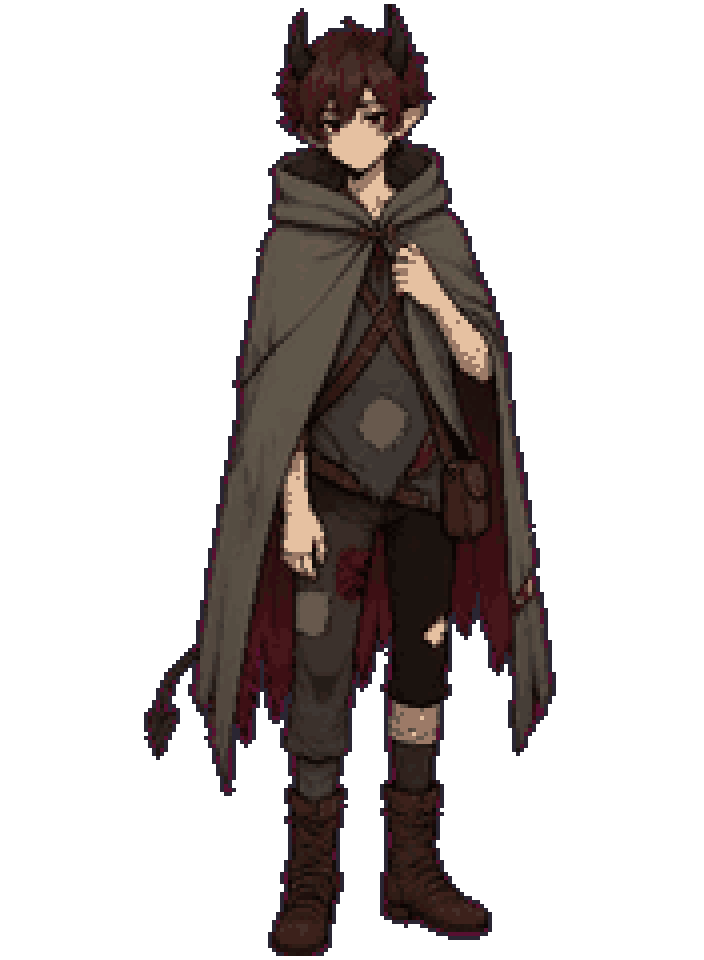
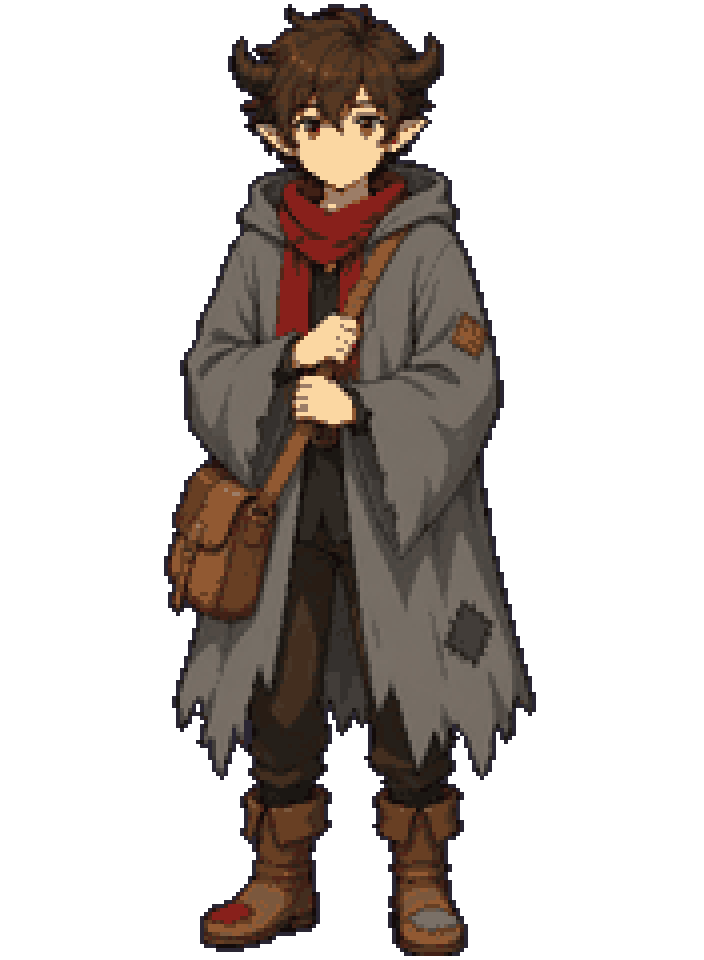
feat: 코어·주역 9인 작화 리뉴얼(셀레나 우선), 캐시 v45

diff --git a/index.html b/index.html
@@ -9,7 +9,7 @@
 <link rel="preconnect" href="https://fonts.googleapis.com">
 <link rel="preconnect" href="https://fonts.gstatic.com" crossorigin>
 <link href="https://fonts.googleapis.com/css2?family=Outfit:wght@400;600;700&family=Noto+Sans+KR:wght@400;500;700&family=Noto+Serif+KR:wght@400;600;700&display=swap" rel="stylesheet">
-<link rel="stylesheet" href="css/style.css?v=44">
+<link rel="stylesheet" href="css/style.css?v=45">
 <script>
 /* QA 계측 — 콘솔/이미지 오류 0건 확인용 (게임 로직에는 관여하지 않음) */
 window.__errs=[]; window.__imgerrs=[];
@@ -30,15 +30,15 @@ addEventListener('unhandledrejection', function(e){ window.__errs.push('promise:
 <div id="overlay"></div>
 <div id="toast" class="toast-root"></div>
 
-<script src="js/data-roster.js?v=44"></script>
-<script src="js/data-clues.js?v=44"></script>
-<script src="js/data-rumors.js?v=44"></script>
-<script src="js/data-act1.js?v=44"></script>
-<script src="js/data-letters.js?v=44"></script>
-<script src="js/data-nights.js?v=44"></script>
-<script src="js/state.js?v=44"></script>
-<script src="js/engine.js?v=44"></script>
-<script src="js/ui.js?v=44"></script>
-<script src="js/main.js?v=44"></script>
+<script src="js/data-roster.js?v=45"></script>
+<script src="js/data-clues.js?v=45"></script>
+<script src="js/data-rumors.js?v=45"></script>
+<script src="js/data-act1.js?v=45"></script>
+<script src="js/data-letters.js?v=45"></script>
+<script src="js/data-nights.js?v=45"></script>
+<script src="js/state.js?v=45"></script>
+<script src="js/engine.js?v=45"></script>
+<script src="js/ui.js?v=45"></script>
+<script src="js/main.js?v=45"></script>
 </body>
 </html>

diff --git a/js/state.js b/js/state.js
@@ -6,7 +6,7 @@
 
 const SAVE_KEY = 'arden_save_v3';
 const SAVE_BAK  = 'arden_save_v3_bak';
-const ASSET_VER = 44;
+const ASSET_VER = 45;
 
 function newState(name) {
   return {

diff --git a/tools/art_specs_core.py b/tools/art_specs_core.py
@@ -1,0 +1,110 @@
+#!/usr/bin/env python3
+"""코어·주역 인물 작화 설계도 (v45 리뉴얼).
+
+초상과 전신이 같은 'look' 문장을 공유해 머리색·눈색·복장이 어긋나지 않는다.
+41인 조연(art_specs.py)과 같은 파스텔 모던 도트 기준을 쓴다.
+
+  python3 tools/gencore.py --only serena --kind face
+"""
+
+# id: (성별, look, 초상 추가 묘사, 전신 추가 묘사)
+SPECS = {
+    # ── 셀레나 — 교단 서기관 (최우선) ─────────────────────────
+    'serena': ('f',
+        'a beautiful young woman of twenty-four with long wavy golden-blonde hair framing her shoulders, '
+        'large soft amber eyes with long lashes, a delicate silver circlet with a small crystal on her forehead, '
+        'a high-collared white and gold priest vestment with a pale blue stole and a small silver cross',
+        'a calm gentle look, a faint warm smile, facing the viewer',
+        'standing with both hands resting on a small prayer book at her waist, a long white robe with gold trim, '
+        'a pale blue stole hanging down the front'),
+
+    # ── 카엘 — 변경 수비대장 ─────────────────────────────────
+    'kael': ('m',
+        'a handsome slim young man of twenty-six with short tousled warm-brown hair, clear blue eyes, warm light '
+        'skin, clean shaven jaw, a small old scar on one cheek, polished silver-blue plate armour over a deep blue '
+        'surcoat with a silver cross emblem on the chest',
+        'a steady reserved look, a faint confident smile, facing the viewer, head filling the upper frame, '
+        'shoulders cropped at the collarbone',
+        'standing with one hand resting on the pommel of a longsword at his hip, a deep blue half cape, '
+        'armoured boots, tall and slim with 6.5 head proportions, warm light skin, clear blue eyes'),
+
+    # ── 미라 — 비아 상단주 ───────────────────────────────────
+    'mira': ('f',
+        'a striking woman of twenty-nine with voluminous curly auburn-red hair tied high in a ponytail, '
+        'sharp teal-green eyes, small gold hoop earrings, a teal-green scarf wrapped at her neck, a cream blouse '
+        'under a brown leather bodice, a merchant satchel strap across her chest',
+        'a confident smirk with one brow raised, facing the viewer',
+        'standing with one hand on her hip, a leather ledger and a coin purse at her belt, brown travelling boots'),
+
+    # ── 클레어 — 연금술사 ────────────────────────────────────
+    'claire': ('f',
+        'a pretty young woman of twenty-six with short tousled pastel-pink hair with a mint-green streak in her '
+        'bangs, calm green eyes with long lashes, brass goggles pushed up on her head, a dark plum leather '
+        'alchemist coat with many straps and buckles',
+        'a cool half-lidded look, a tiny knowing smirk, facing the viewer',
+        'standing with a small glowing green flask held up in one hand, a heavy leather apron over her coat, '
+        'a row of glass vials at her belt'),
+
+    # ── 엘렌 — 외뿔 악마족 검사 ───────────────────────────────
+    'ellen': ('f',
+        'a stunning demon woman of twenty-one with long straight platinum-white hair, large ruby-red eyes with '
+        'long lashes, a single small crimson horn on the left side of her head, pointed ears, fair peach skin '
+        'with a soft blush, a black high-collared coat with a dark grey under-shirt, a crimson sash and a thin '
+        'silver clasp',
+        'a quiet guarded stare, lips slightly parted, facing the viewer',
+        'standing with a slender katana held low in one hand, black boots, a long black coat with silver buckles '
+        'and a crimson inner sash, fair peach skin'),
+
+    # ── 밀 — 용병・페르카의 어머니 ────────────────────────────
+    'mill': ('f',
+        'a warm cheerful demon woman of thirty-two with bright green short hair, glowing yellow eyes, a single '
+        'short cream horn on the right side of her head, pointed ears, a fur-trimmed brown leather vest over a '
+        'cream shirt, a hand axe hanging at her belt',
+        'a bright welcoming grin, facing the viewer',
+        'standing with a hand axe resting over one shoulder and a travelling pack on her back, sturdy boots'),
+
+    # ── 그레타 — 회계관 ─────────────────────────────────────
+    'greta': ('f',
+        'a composed young woman of twenty-eight with ash-brown hair pulled into a tight low bun, sharp narrow '
+        'grey-green eyes, thin half-rim spectacles, a high-collared dark navy clerk dress with white cuffs',
+        'a cool level look, facing the viewer',
+        'holding a thick leather ledger against her chest, an abacus hanging at her waist'),
+
+    # ── 세라핀 — 은빛매 밀사 ─────────────────────────────────
+    'seraphine': ('f',
+        'a beautiful woman of thirty with long wavy dark plum hair, sharp violet eyes, a burgundy high-collared '
+        'coat with silver trim and a silver feather brooch, long earrings',
+        'a composed knowing smile, facing the viewer',
+        'standing with one gloved hand at her collar, a folded letter held at her side, dark heeled boots'),
+
+    # ── 도런 — 이름을 감춘 소년 ───────────────────────────────
+    'dorun': ('m',
+        'a young demon boy of fifteen with fluffy dark-brown hair, small dark horns on both sides of his head, '
+        'pointed ears, warm amber eyes, an oversized grey hooded cloak with a dark red scarf',
+        'a wary downcast look, facing the viewer',
+        'standing with the hood down, both hands holding the strap of a worn satchel, patched boots'),
+}
+
+STYLE_PORTRAIT = (
+    'Modern anime pixel art portrait, crisp clean pixel clusters, soft pastel palette, bright cel shading, '
+    'flat anime colouring with only two or three tones per material, clean unbroken colour areas, no gradients, '
+    'no noise, no texture grime, thin precise outline, no dithering, clean and bright: tight bust portrait, '
+    'head large in frame down to the collarbone, '
+)
+STYLE_BODY = (
+    'Modern anime pixel art full-body character sprite, crisp clean pixel clusters, soft pastel palette, bright '
+    'cel shading, flat anime colouring with only two or three tones per material, clean unbroken colour areas, '
+    'no gradients, no noise, no texture grime, thin precise outline, no dithering, clean and bright: full body '
+    'from head to feet, '
+)
+TAIL = (
+    ', centered, plain flat magenta background #FF00FF filling the rest of the frame, '
+    'no text, no frame, no border, no watermark, no ground shadow'
+)
+
+
+def prompt(cid, kind):
+    sex, look, face_pose, body_pose = SPECS[cid]
+    if kind == 'face':
+        return STYLE_PORTRAIT + look + ', ' + face_pose + TAIL
+    return STYLE_BODY + 'standing, facing the viewer, ' + look + ', ' + body_pose + TAIL

diff --git a/tools/gencore.py b/tools/gencore.py
@@ -1,0 +1,111 @@
+#!/usr/bin/env python3
+"""코어·주역 인물 초상·전신을 새로 뽑고 최신 pixelize 파이프라인으로 후처리한다.
+
+  python3 tools/gencore.py --only serena --kind face   # 한 장만
+  python3 tools/gencore.py --only serena,kael          # 지정 인물 초상+전신
+  python3 tools/gencore.py --pixelize --only serena    # 이미 뽑은 원본만 후처리
+  python3 tools/gencore.py --force                     # 전원 다시 생성
+
+원본은 assets/raw/{id}_face.png · {id}.png 에 덮어쓰고(이전 원본은 assets/raw/_prev 로),
+결과는 assets/{id}_portrait.png · {id}.png 로 저장한다.
+"""
+import argparse
+import importlib.util
+import shutil
+import subprocess
+from pathlib import Path
+
+HERE = Path(__file__).resolve().parent
+ROOT = HERE.parent
+RAW = ROOT / 'assets' / 'raw'
+PREV = RAW / '_prev'
+OUT = ROOT / 'assets'
+
+
+def _load(name, path):
+    spec = importlib.util.spec_from_file_location(name, path)
+    mod = importlib.util.module_from_spec(spec)
+    spec.loader.exec_module(mod)
+    return mod
+
+
+pix = _load('pix', HERE / 'pixelize.py')
+core = _load('art_core', HERE / 'art_specs_core.py')
+
+IDS = list(core.SPECS)
+
+# 인물별 후처리 보정 — 흰 머리·검은 옷처럼 극단적인 색은 기본 파스텔 톤에서 뭉개진다.
+PIXEL_OVERRIDES = {
+    'greta': {
+        'face': dict(color=1.12, contrast=1.06, bright=0.98),
+    },
+    'ellen': {
+        'face': dict(color=1.16, contrast=1.07, bright=0.98),
+        'body': dict(color=1.18, contrast=1.10, bright=1.14),
+    },
+}
+FACE_PARAMS = dict(target=(240, 240), outline=False, align='center', scale=3, colors=48,
+                   color=1.10, contrast=1.04, bright=1.05)
+BODY_PARAMS = dict(color=1.20, contrast=1.06, bright=1.02)
+
+
+def raw_path(cid, kind):
+    return RAW / (f'{cid}_face.png' if kind == 'face' else f'{cid}.png')
+
+
+def generate(cid, kind):
+    dst = raw_path(cid, kind)
+    RAW.mkdir(parents=True, exist_ok=True)
+    if dst.exists():
+        PREV.mkdir(parents=True, exist_ok=True)
+        shutil.copy2(dst, PREV / dst.name)
+    p = subprocess.run(['images', core.prompt(cid, kind), '--out', str(dst)],
+                       capture_output=True, text=True)
+    if p.returncode != 0 or not dst.exists():
+        return False, (p.stderr or p.stdout).strip()[:300]
+    return True, dst
+
+
+def pixelize(cid, kind):
+    src = raw_path(cid, kind)
+    if not src.exists():
+        return None
+    over = PIXEL_OVERRIDES.get(cid, {}).get(kind, {})
+    if kind == 'face':
+        pix.process_sprite(src, OUT / f'{cid}_portrait.png', **{**FACE_PARAMS, **over})
+        return OUT / f'{cid}_portrait.png'
+    pix.process_sprite(src, OUT / f'{cid}.png', **{**BODY_PARAMS, **over})
+    return OUT / f'{cid}.png'
+
+
+def main():
+    ap = argparse.ArgumentParser()
+    ap.add_argument('--only', default='')
+    ap.add_argument('--kind', default='', choices=['', 'face', 'body'])
+    ap.add_argument('--force', action='store_true')
+    ap.add_argument('--pixelize', action='store_true')
+    args = ap.parse_args()
+
+    only = [x for x in args.only.split(',') if x]
+    ids = [i for i in IDS if not only or i in only]
+    kinds = [args.kind] if args.kind else ['face', 'body']
+    for cid in ids:
+        for kind in kinds:
+            if args.pixelize:
+                out = pixelize(cid, kind)
+                print(('ok  ' if out else 'skip') + f' {cid} {kind}', flush=True)
+                continue
+            src = raw_path(cid, kind)
+            if src.exists() and not args.force:
+                print(f'skip {cid} {kind} (raw exists)', flush=True)
+                continue
+            ok, info = generate(cid, kind)
+            if not ok:
+                print(f'FAIL {cid} {kind}: {info}', flush=True)
+                continue
+            out = pixelize(cid, kind)
+            print(f'ok  {cid} {kind} -> {out.name if out else "-"}', flush=True)
+
+
+if __name__ == '__main__':
+    main()

diff --git a/README.md b/README.md
@@ -28,7 +28,18 @@
 - **단서 수첩** — 1막 단서 12종 · 추론 6조. 두 단서를 이으면 3막의 질문이 열린다.
 - **1막 목표** — 민심 45 · 성벽 Lv1 · 식량 10일 · 서류와 빈 줄. 15일 밤에 매듭.
 - **세이브** — `arden_save_v3` · 자동 저장 · base64 코드 내보내기/불러오기.
-- **캐시 버스터** — `ASSET_VER = 44`, 모든 `?v=44`.
+- **캐시 버스터** — `ASSET_VER = 45`, 모든 `?v=45`.
+
+## v45 — 코어·주역 작화 리뉴얼
+
+셀레나를 최우선으로 1막 주역·메인 9인의 초상·전신을 `var2` 파스텔 모던 도트 기준으로 다시 뽑았다.
+
+- 새로 뽑음: `serena` `kael` `mira` `claire` `ellen` `mill` `greta` `seraphine` `dorun` (초상+전신 18장).
+  초상과 전신이 같은 'look' 문장을 공유해 머리색·눈색·복장이 어긋나지 않는다(`tools/art_specs_core.py`).
+- 그대로 둠(이미 기준에 맞음): `lana` `beloa` `rebe` `tilly`.
+- `ellen`은 백금발·적안·왼 외뿔, `mill`은 초록 단발·오른뿔·노란 눈, `lana`는 적발·왼뿔+잘린 오른뿔로 설정을 지켰다.
+- 공통 파이프라인: `tools/pixelize.py` — 실루엣 despill·마젠타 제거·1px 외곽선·파스텔 셀 채색.
+  흰 머리·검은 옷처럼 극단적인 색은 `tools/gencore.py`의 인물별 보정으로 뭉개짐을 막았다.
 
 ## v44 — 1막 문구 전면 리라이팅
 
@@ -59,6 +70,9 @@ js/main.js          부트
 tools/qa_data.py    데이터 정합성·금지어 검사
 tools/qa_play.py    15일 자동 플레이 시뮬레이션
 tools/qa_voice.py   대사 목소리·리듬 검수 (S·V·D·C·L 목표 수치)
+tools/art_specs_core.py  코어·주역 작화 설계도 (초상/전신 공통 look)
+tools/gencore.py    코어·주역 작화 생성·도트 후처리
+tools/pixelize.py   마젠타 배경 → 투명 도트 후처리 파이프라인
 ```
 
 ## QA
